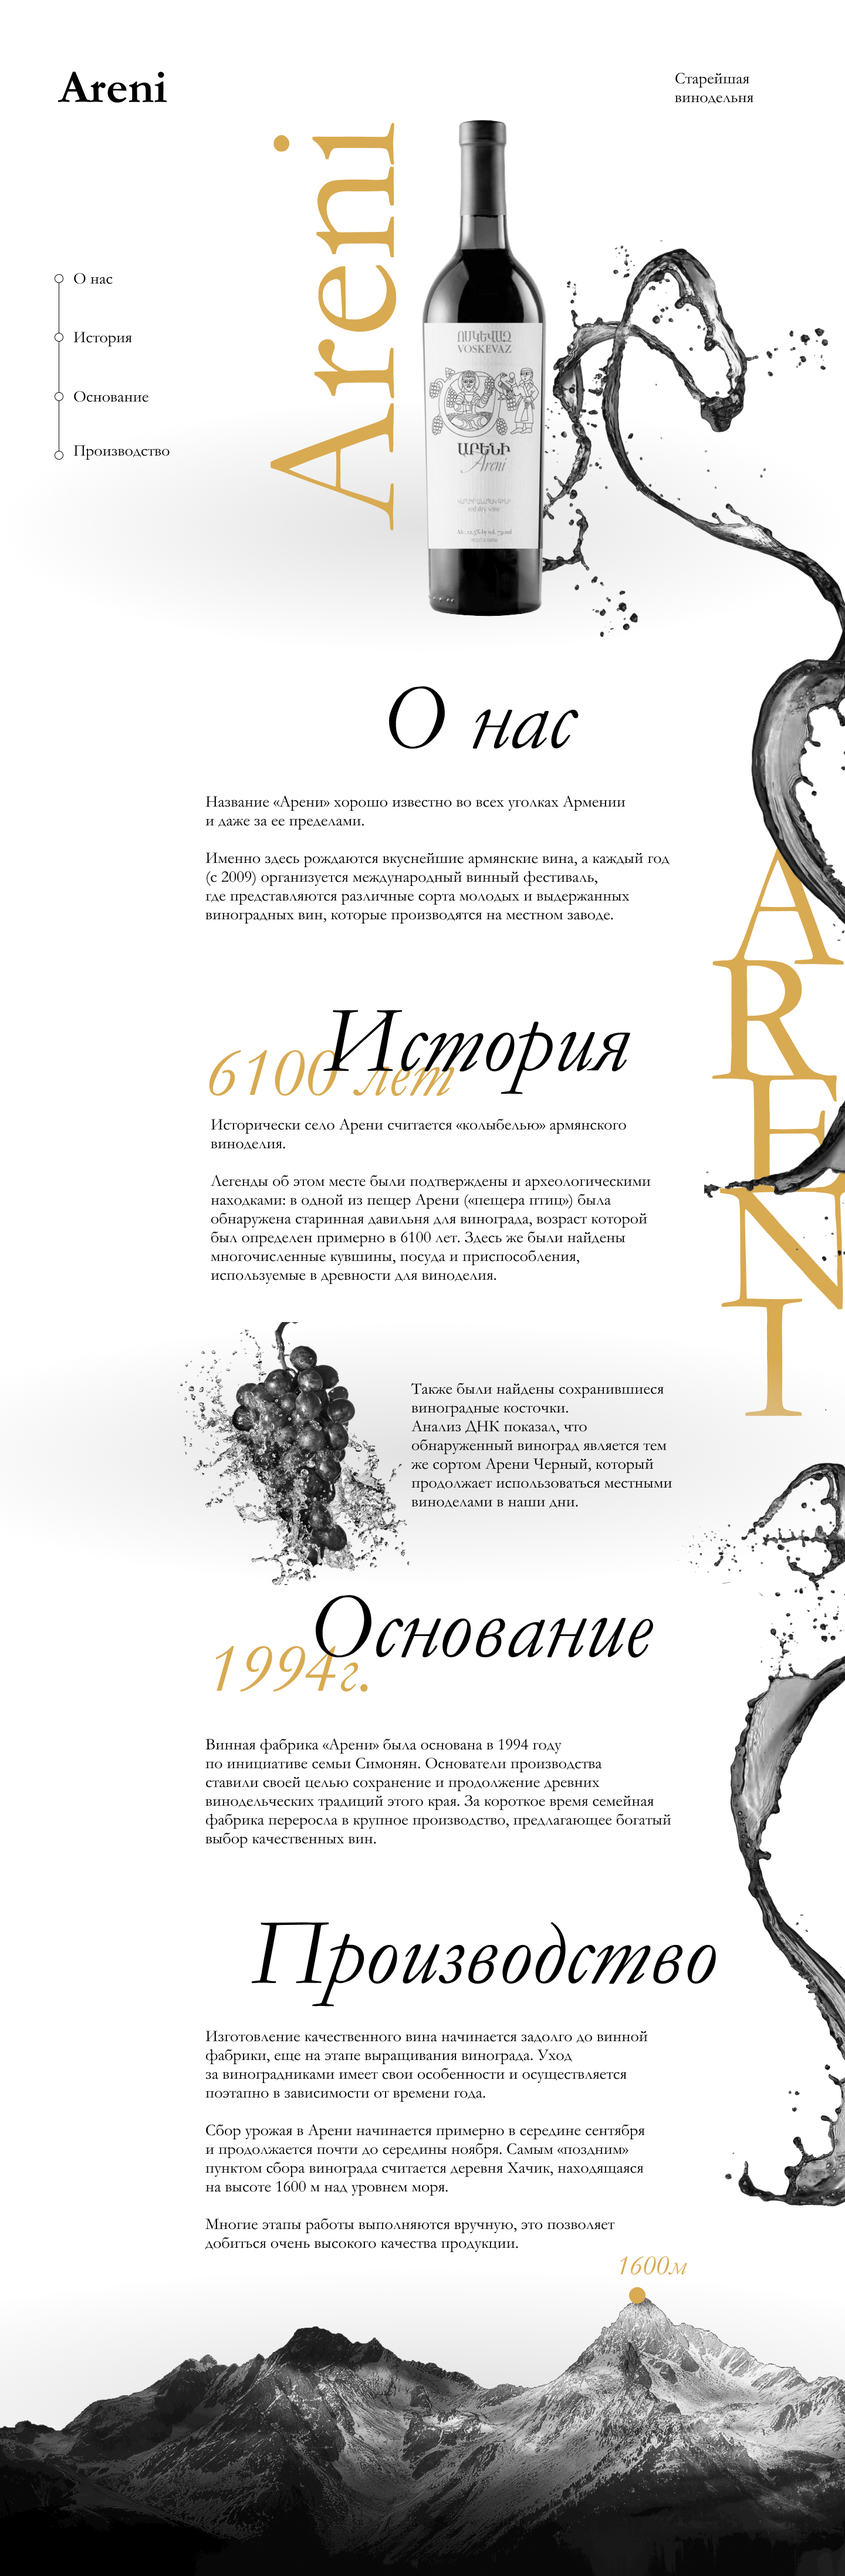
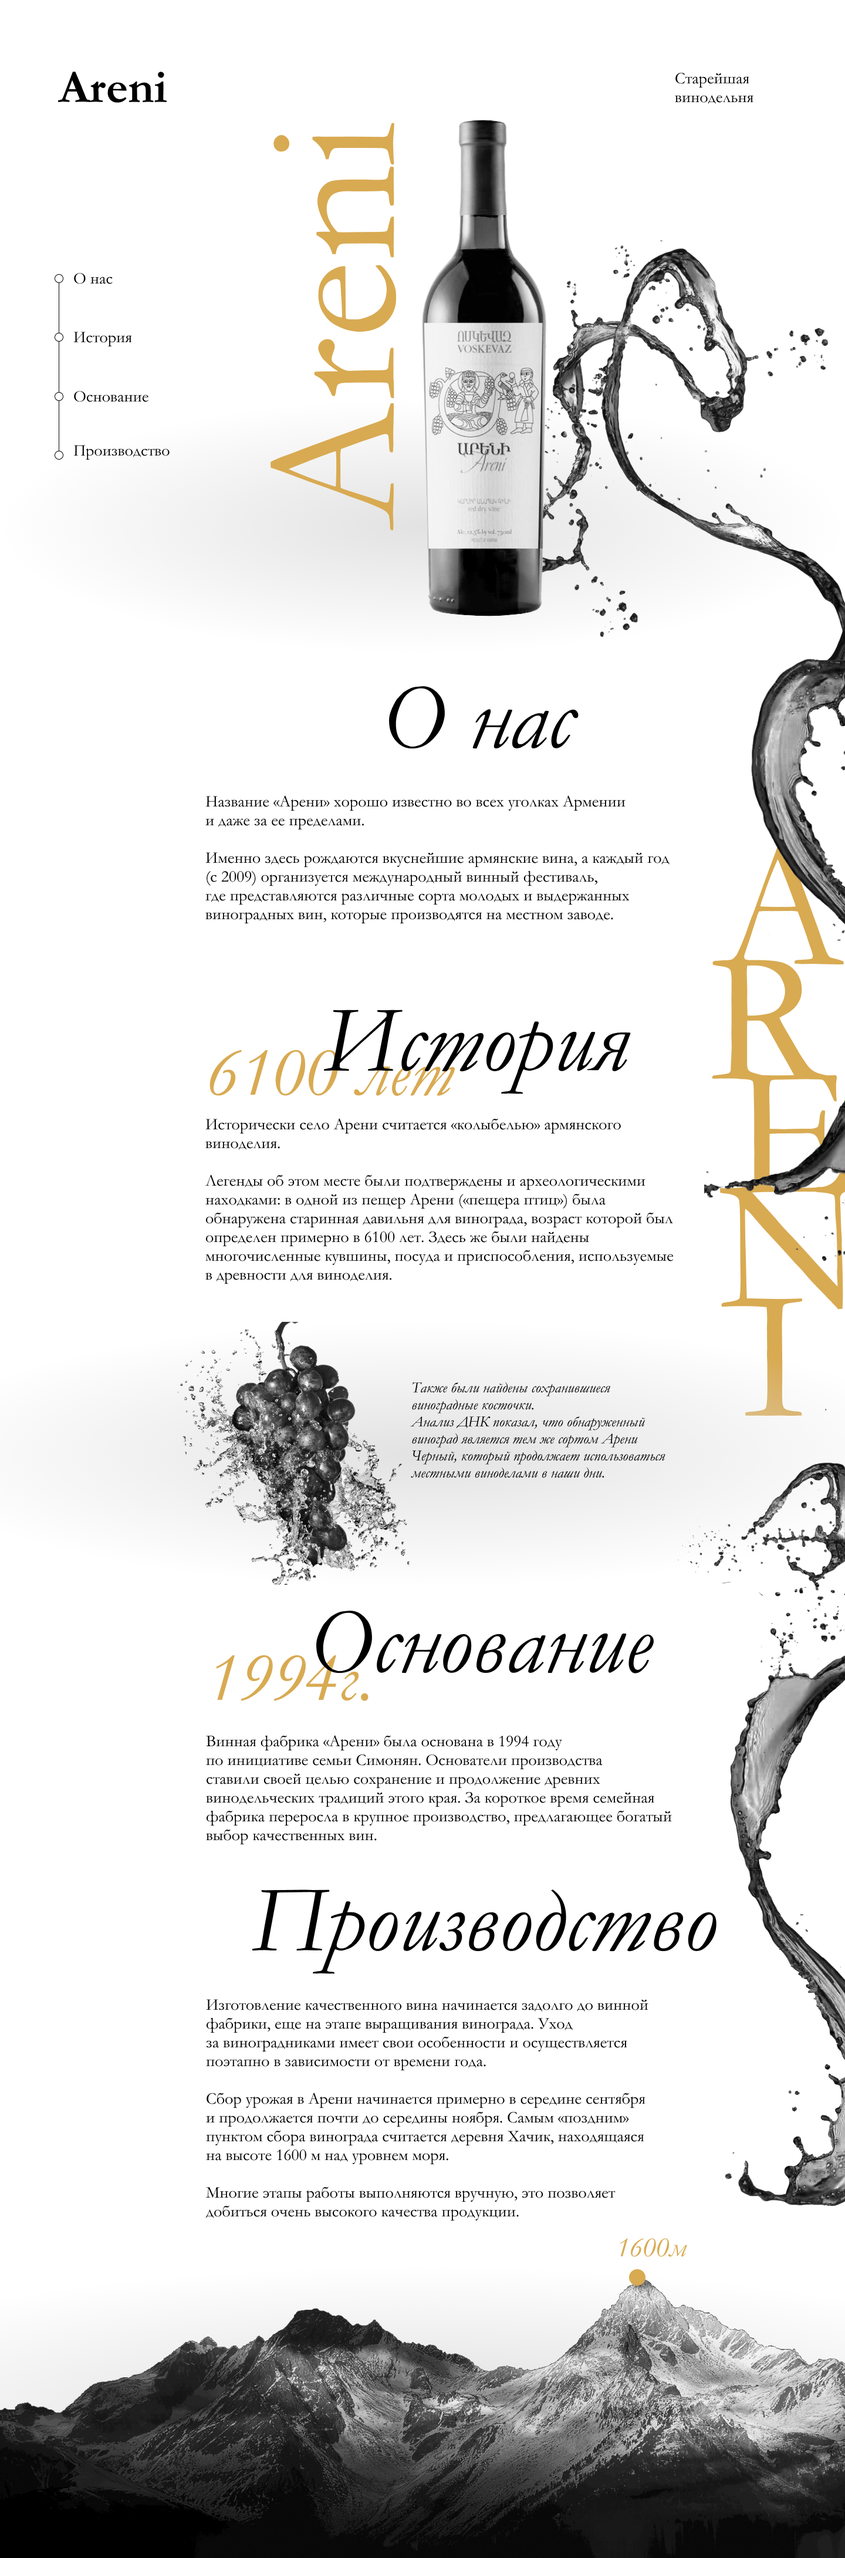
+

diff --git a/Areni.html b/Areni.html
@@ -72,26 +72,30 @@
     <p>Именно здесь рождаются вкуснейшие армянские вина, а каждый год<br>(с 2009) организуется международный винный фестиваль,<br>где представляются различные сорта молодых и выдержанных виноградных вин, которые производятся на местном заводе.</p>
   </div>
 
-  <section>
-    <h2 id="#s2">История</h2>
-    <div class="">
-    <p>Исторически село Арени считается «колыбелью» армянского виноделия.<br>Легенды об этом месте были подтверждены и археологическими находками: в одной из пещер Арени («пещера птиц») была обнаружена старинная давильня для винограда, возраст которой был определен примерно в 6000 лет. Здесь же были найдены многочисленные кувшины, посуда и приспособления, используемые в древности для виноделия.</p>
-    </div>
-  </section>
+  <h2 id="#s2">История</h2>
+  <div class="lay2">
+    <p>Исторически село Арени считается «колыбелью» армянского виноделия.</p>
+      <br>
+    <p>Легенды об этом месте были подтверждены и археологическими находками: в одной из пещер Арени («пещера птиц») была обнаружена старинная давильня для винограда, возраст которой был определен примерно в 6000 лет. Здесь же были найдены многочисленные кувшины, посуда и приспособления, используемые<br>в древности для виноделия.</p>
+  </div>
 
-  <section>
-    <h2 id="#s3">Основание</h2>
-    <div class="">
+  <div class="blockquote">
+    <blockquote>Также были найдены сохранившиеся виноградные косточки.<br>Анализ ДНК показал, что обнаруженный виноград является тем же сортом Арени Черный, который продолжает использоваться местными виноделами в наши дни.</blockquote>
+  </div>
+
+  <h2 id="#s3">Основание</h2>
+  <div class="lay3">
     <p>Винная фабрика «Арени» была основана в 1994 году по инициативе семьи Симонян. Основатели производства ставили своей целью сохранение и продолжение древних винодельческих традиций этого края. За короткое время семейная фабрика переросла в крупное производство, предлагающее богатый выбор качественных вин.</p>
-    </div>
-  </section>
+  </div>
 
-  <section>
-    <h2 id="#s4">Производство</h2>
-    <div class="">
-    <p>Изготовление качественного вина начинается задолго до винной фабрики, еще на этапе выращивания винограда. Уход за виноградниками имеет свои особенности и осуществляется поэтапно в зависимости от времени года.<br>Сбор урожая в Арени начинается примерно в середине сентября и продолжается почти до середины ноября. Самым «поздним» пунктом сбора винограда считается деревня Хачик, находящаяся на высоте 1600 м над уровнем моря.<br>Многие этапы работы выполняются вручную, это позволяет добиться очень высокого качества продукции. </p>
-    </div>
-  </section>
+  <h2 id="#s4">Производство</h2>
+  <div class="lay4">
+    <p>Изготовление качественного вина начинается задолго до винной фабрики, еще на этапе выращивания винограда. Уход<br>за виноградниками имеет свои особенности и осуществляется поэтапно в зависимости от времени года.</p>
+    <br>
+    <p>Сбор урожая в Арени начинается примерно в середине сентября<br>и продолжается почти до середины ноября. Самым «поздним» пунктом сбора винограда считается деревня Хачик, находящаяся<br>на высоте 1600 м над уровнем моря.</p>
+    <br>
+    <p>Многие этапы работы выполняются вручную, это позволяет добиться очень высокого качества продукции. </p>
+  </div>
 
 </article>
 </body>

diff --git a/css/content.css b/css/content.css
@@ -1,10 +1,33 @@
-.lay1{
+article div{
   width: 800px;
-  height: 450px;
   position: relative;
   margin: 0 auto;
-  margin-top: 950px;
   margin-left: 350px;
+}
+article h1, article h2{
+  text-align: center;
+  display: flex;
+  align-items: center;
+  justify-content: center;
+  margin-top: 100px;
+  margin-bottom: 50px;
+}
+.lay1{
+  height: 450px;
+  margin-top: 950px;
+}
+.lay2{
+  height: 500px;
+  /* margin-top: 100px; */
+}
+.lay3{
+  height: 400px;
+  margin-top: 100px;
+}
+.blockquote{
+  width: 450px;
+  height: 255px;
+  margin: 180px 290px 90px 700px;
 }
 article h1 {
   font-size: 160px;
@@ -15,8 +38,27 @@ article h1 {
   display: flex;
   margin-left: 300px;
   margin-right: 140px;
-  margin-bottom: 50px;
+  margin-bottom: 60px;
+}
+article h2 {
+  font-size: 160px;
+  height: 150px;
+  font-family: 'EB Garamond', serif;
+  font-style: italic;
+  position: relative;
+  display: flex;
+  margin-left: 200px;
+  margin-right: 50px;
+  margin-bottom: 60px;
 }
 p {
   font-size: 28px;
+  line-height: 31.5px;
+  margin-bottom: 25px;
+}
+blockquote {
+  font-size: 26px;
+  font-family: 'EB Garamond', serif;
+  font-style: italic;
+  position: relative;
 }
